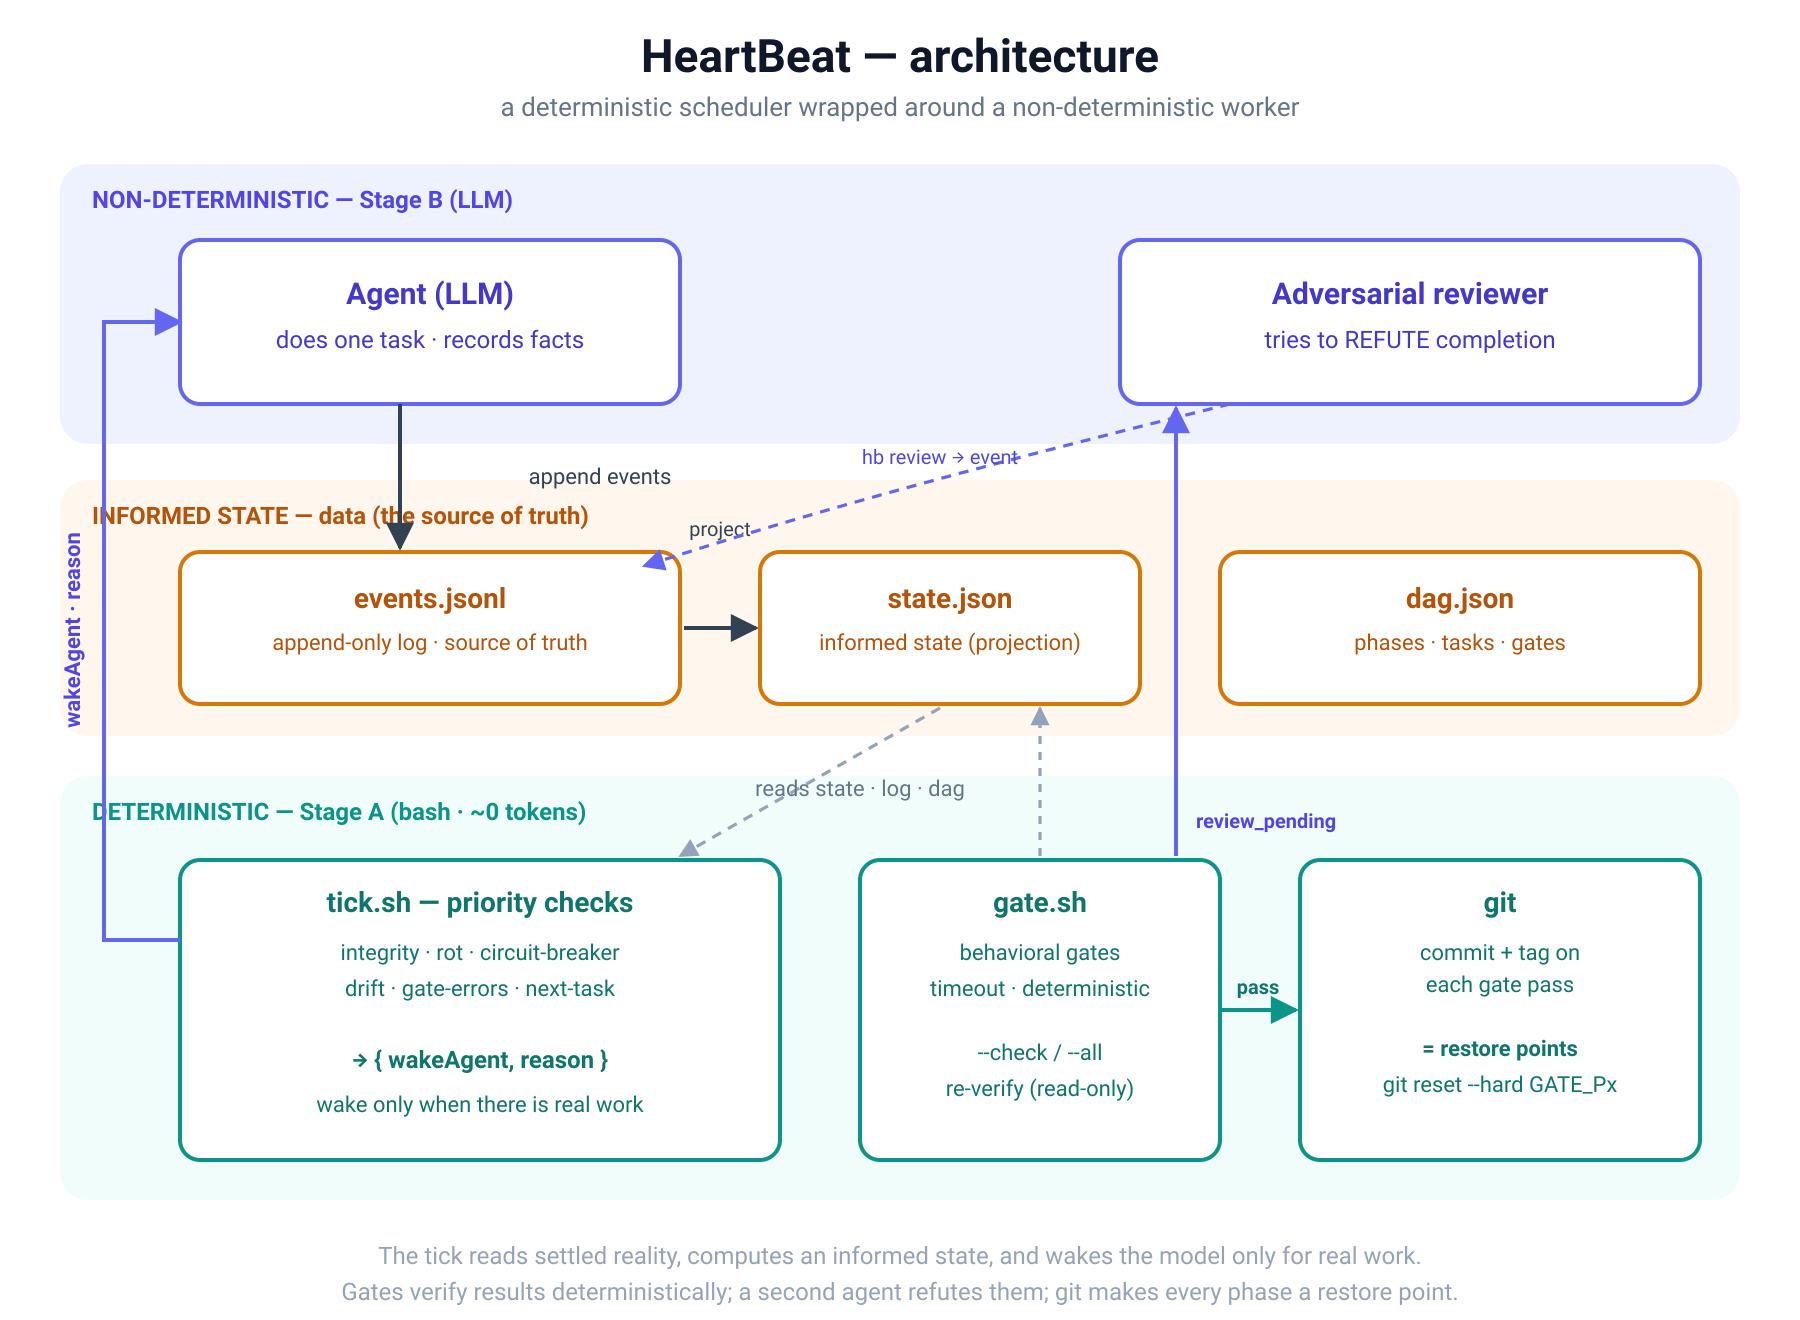
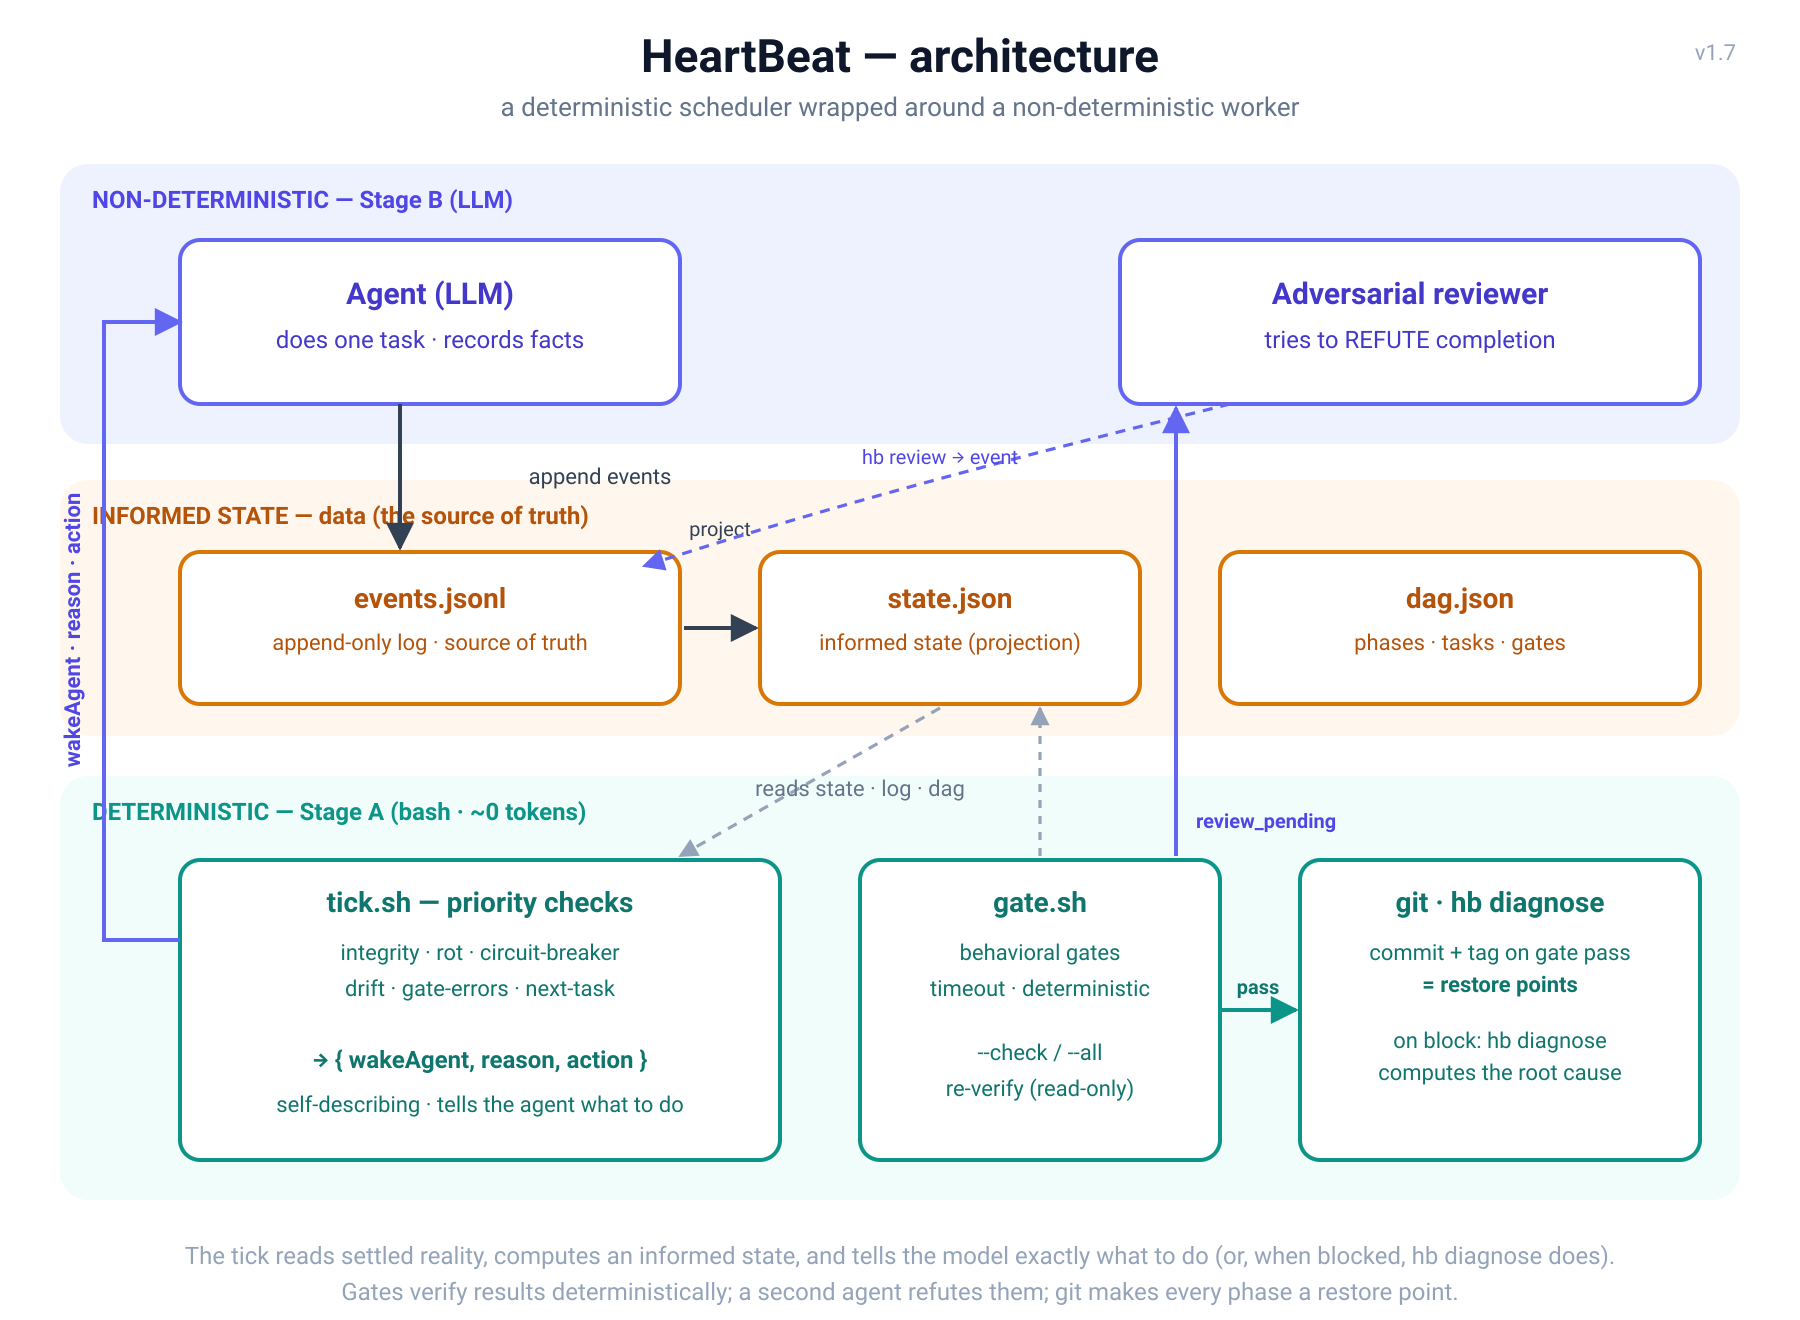
docs: refresh to v1.7 (self-describing tick + hb diagnose in diagrams/writeup)

diff --git a/docs/heartbeat.md b/docs/heartbeat.md
@@ -79,9 +79,11 @@ Roughly:
 2. **Describe the work as a DAG** (`dag.json`) — phases, tasks, and gates. There's a
    helper that turns a written plan into one and lints it.
 3. **Drive the tick on a timer** — a loop, system cron, or a scheduled job. Each tick
-   either sleeps or wakes the agent with a reason: do the next task, run a gate, run
-   the adversarial review, or stop because something needs a human.
+   either sleeps or wakes the agent with a reason *and the exact next action*: do the
+   next task, run a gate, run the adversarial review, or stop because something needs
+   a human. When it's blocked, it computes the root cause (which check failed, which
+   commit deleted a gate's file) rather than leaving the agent to guess.
 4. **Each gate pass commits and tags**, so every phase is a restore point.
 
 That's the shape of it. You describe the work and the checks; the tick decides,
-cheaply and deterministically, when to spend the model.
+cheaply and deterministically, when to spend the model — and tells it what to do.
